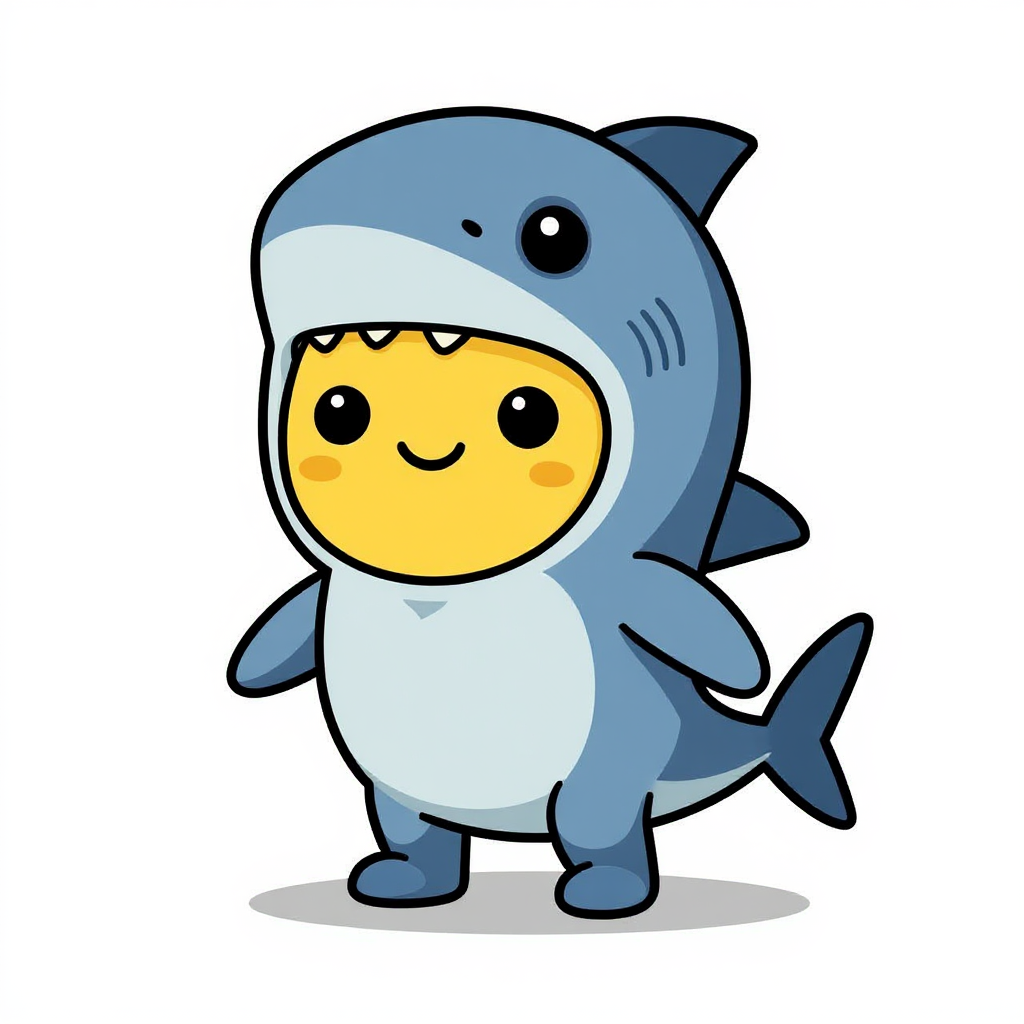
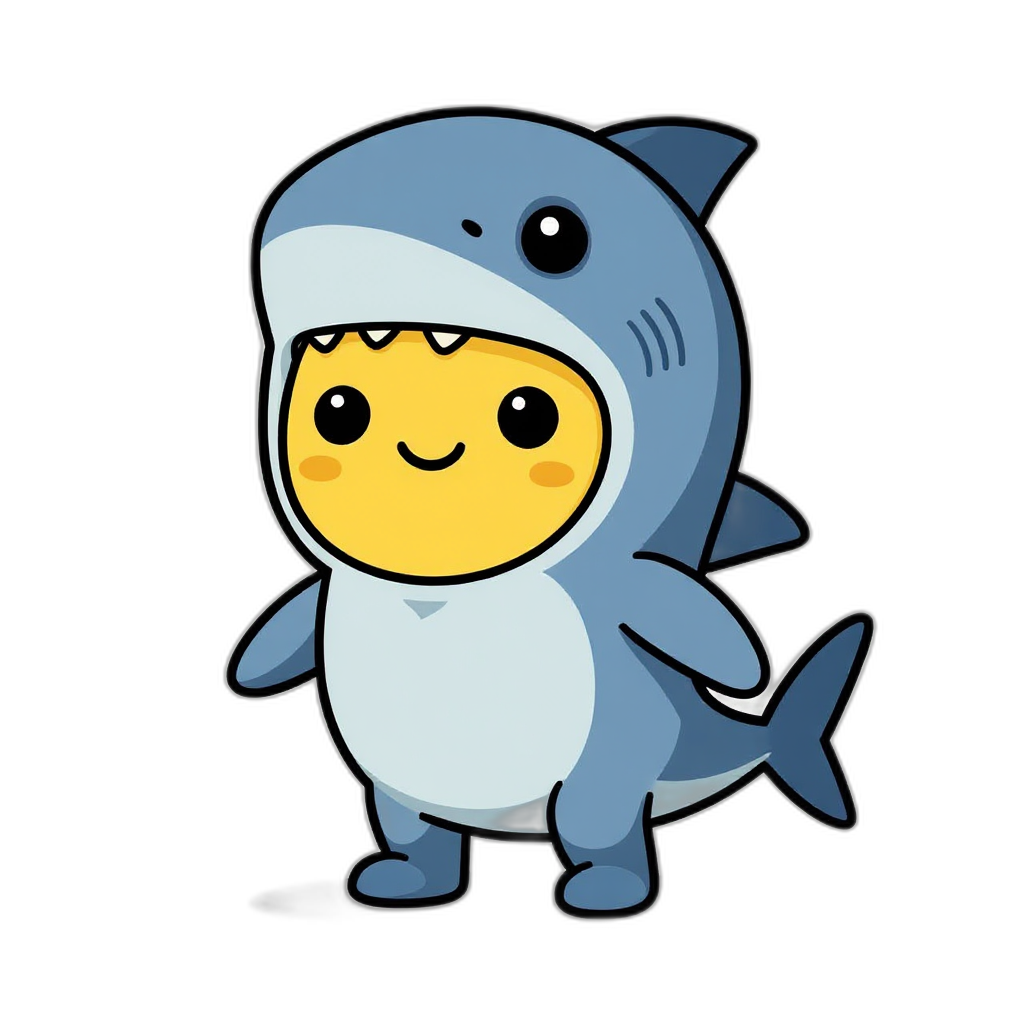
Removed background from few bois.

diff --git a/app/src/ticket/operations.ts b/app/src/ticket/operations.ts
@@ -13,8 +13,8 @@ export const generateTicketImage: GenerateTicketImage<GenerateTicketImageInput, 
   // Generate a random 6-digit ticket number
   const ticketNumber = Math.floor(100000 + Math.random() * 900000);
 
-  // Select a random mascot image number (1-44)
-  const randomMascotNumber = Math.floor(Math.random() * 44) + 1;
+  // Select a random mascot image number (1-47)
+  const randomMascotNumber = Math.floor(Math.random() * 47) + 1;
 
   return {
     imageNumber: randomMascotNumber,
